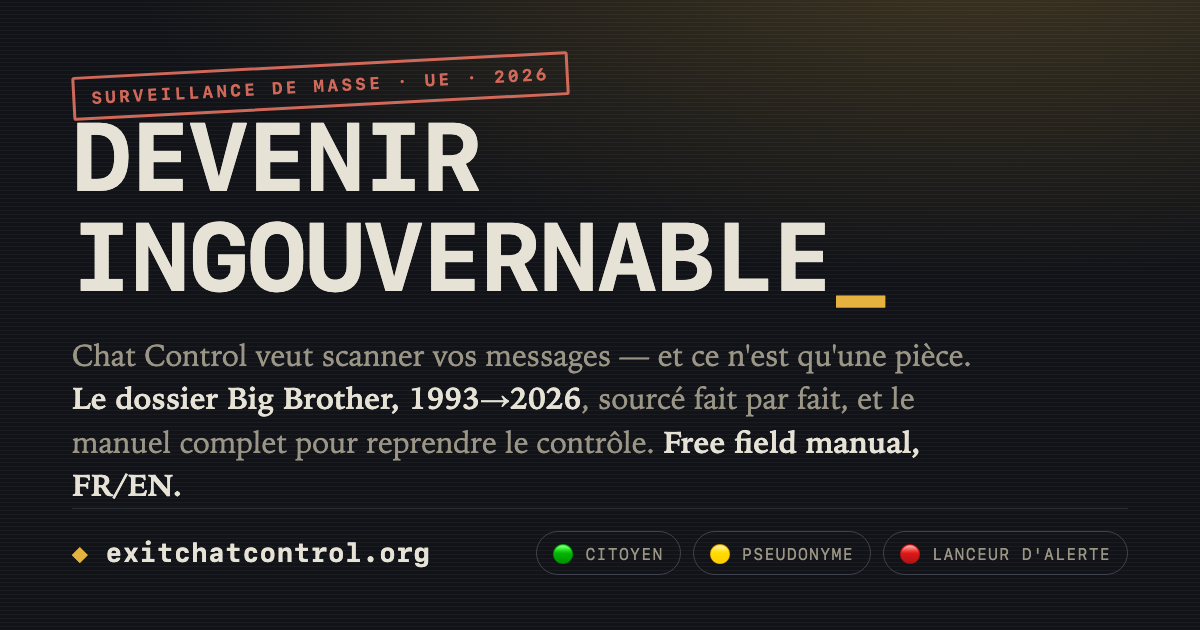
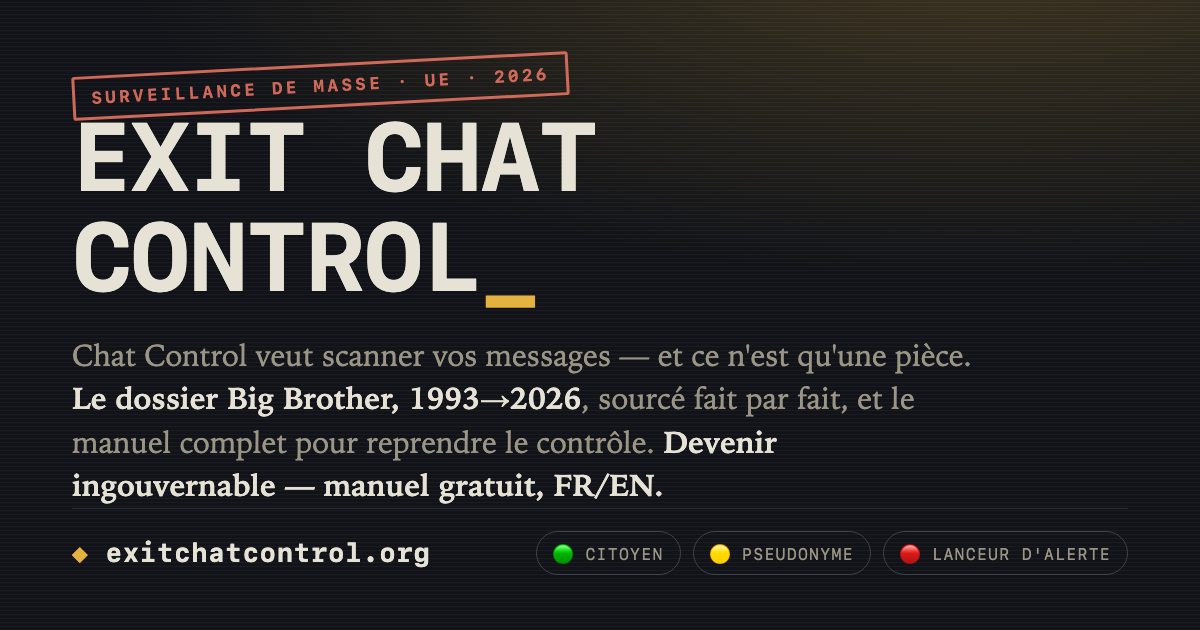
feat(quick-wins): rebrand cascade complete, per-leaf lang (WCAG 3.1.2), CONTRIBUTING, print source line
Five-in-one polish series:

- rebrand cascade FINISHED: og.png regenerated ('EXIT CHAT CONTROL' + Big
  Brother dossier lede), 404.html, site.webmanifest, JSON-LD name/headline,
  meta og:image:alt, /en/ headline — zero old-title occurrence left in dist
  (new e2e guard makes regressions impossible)
- a11y: every <T> leaf now carries its own lang attribute — screen readers
  pronounce EN fragments with English rules on the FR page and vice versa
  on /en/ (WCAG 3.1.2 language-of-parts, one attribute, ~2000 nodes; e2e
  asserts both shapes in the prerender)
- CONTRIBUTING.md: upstream's three rules (traction/open-source/privacy)
  + a where-things-live table mapping the typed data files + the checks
  contributors run (tests name malformed entries)
- print: the printed dossier names its source (footer::after with the
  canonical URL on the last sheet)
- gen-og rig aligned with the brand so future regenerations stay coherent

Gates: lint 0 · vitest 15/15 · build · e2e ALL GREEN (axe ×2 + 2 new guards)

diff --git a/src/lib/i18n.tsx b/src/lib/i18n.tsx
@@ -4,12 +4,21 @@ import type { ReactNode } from 'react'
    :root[data-lang=…] shows one. This is deliberate (inherited from v1):
    the language toggle keeps working before hydration and with JS disabled
    after the initial paint, and switching is instant with zero re-render
-   of a 10k-word page. Language/theme setters live in lib/prefs.ts. */
+   of a 10k-word page. Language/theme setters live in lib/prefs.ts.
+
+   Each leaf carries its own lang attribute: on the FR page the visible FR
+   span matches the page language (harmless) while any EN fragment a screen
+   reader encounters is pronounced with English rules — and vice versa on
+   /en/. WCAG 3.1.2 (language of parts), one attribute, ~2000 nodes. */
 export function T({ fr, en }: { fr: ReactNode; en: ReactNode }) {
   return (
     <>
-      <span data-l="fr">{fr}</span>
-      <span data-l="en">{en}</span>
+      <span data-l="fr" lang="fr">
+        {fr}
+      </span>
+      <span data-l="en" lang="en">
+        {en}
+      </span>
     </>
   )
 }

diff --git a/src/styles/print.css b/src/styles/print.css
@@ -22,4 +22,11 @@
   }
   a.cite::after { content: ''; }
   .manifesto { background: #111; color: #fff; -webkit-print-color-adjust: exact; print-color-adjust: exact; }
+  /* the printed dossier names its source on the last sheet */
+  footer::after {
+    content: 'exitchatcontrol.org — dossier imprimé · printed dossier';
+    display: block; margin-top: 1.2rem; padding-top: 0.6rem;
+    border-top: 1px solid #888;
+    font-family: var(--mono); font-size: 0.72rem; color: #555;
+  }
 }

diff --git a/index.html b/index.html
@@ -78,7 +78,7 @@
     <meta property="og:image:height" content="630" />
     <meta
       property="og:image:alt"
-      content="Devenir Ingouvernable — manuel de souveraineté numérique contre Chat Control"
+      content="Exit Chat Control — manuel de souveraineté numérique contre la surveillance de masse"
     />
     <meta name="twitter:card" content="summary_large_image" />
     <meta name="twitter:title" content="Exit Chat Control · Devenir ingouvernable" />
@@ -101,13 +101,13 @@
           {
             "@type": "WebSite",
             "url": "https://exitchatcontrol.org/",
-            "name": "Devenir Ingouvernable — Exit Chat Control",
+            "name": "Exit Chat Control · Devenir ingouvernable",
             "inLanguage": ["fr", "en"]
           },
           {
             "@type": "Article",
             "mainEntityOfPage": "https://exitchatcontrol.org/",
-            "headline": "Devenir Ingouvernable : échapper à Chat Control",
+            "headline": "Exit Chat Control : devenir ingouvernable",
             "description": "Manuel de souveraineté numérique contre le scan des messages privés dans l'UE : messagerie chiffrée, e-mail, VPN, Linux, GrapheneOS, auto-hébergement, et 25 ans de précédents documentés.",
             "inLanguage": "fr",
             "datePublished": "2026-07-09",

diff --git a/public/404.html b/public/404.html
@@ -4,7 +4,7 @@
 <meta charset="utf-8">
 <meta name="viewport" content="width=device-width, initial-scale=1">
 <meta name="robots" content="noindex">
-<title>404 — Devenir Ingouvernable</title>
+<title>404 — Exit Chat Control</title>
 <style>
   :root{--bg:#efece3;--text:#1b1813;--dim:#5c5749;--accent:#a9761a;--warn:#a83324;
     --mono:ui-monospace,"SF Mono",Menlo,Consolas,monospace;
@@ -27,7 +27,7 @@
   <h1>404</h1>
   <p>Cette page n'existe pas — mais le guide, oui.<br>
   <span lang="en">This page doesn't exist — the guide does.</span></p>
-  <p><a href="/">→ Devenir Ingouvernable / Becoming Ungovernable</a><br>
+  <p><a href="/">→ Exit Chat Control · Devenir ingouvernable / Becoming ungovernable</a><br>
   <a href="/exitchatcontrol-offline.html">→ Version hors-ligne · Offline copy</a></p>
 </div>
 </body>

diff --git a/scripts/og.html b/scripts/og.html
@@ -40,10 +40,10 @@
 <body>
   <span class="stamp">Surveillance de masse · UE · 2026</span>
   <div>
-    <h1>Devenir<br>Ingouvernable<span class="cursor">_</span></h1>
+    <h1>Exit Chat<br>Control<span class="cursor">_</span></h1>
     <p class="lede" style="margin-top:26px">Chat Control veut scanner vos messages —
     et ce n'est qu'une pièce. <b>Le dossier Big Brother, 1993→2026</b>, sourcé fait par fait,
-    et le manuel complet pour reprendre le contrôle. <b>Free field manual, FR/EN.</b></p>
+    et le manuel complet pour reprendre le contrôle. <b>Devenir ingouvernable — manuel gratuit, FR/EN.</b></p>
   </div>
   <div class="foot">
     <span class="url"><span class="glyph">◆</span> exitchatcontrol.org</span>

diff --git a/CONTRIBUTING.md b/CONTRIBUTING.md
@@ -1,0 +1,36 @@
+# Contributing / Contribuer
+
+**EN** — Corrections, translations and new tool entries are welcome. Three
+rules for a tool to qualify (upstream policy): **traction** (established,
+actively maintained, real user base) · **open source** (for the directory the
+license is verified against the repository — source-available doesn't qualify)
+· **privacy-respecting**.
+
+**FR** — Corrections, traductions et nouveaux outils bienvenus. Trois règles
+pour qu'un outil soit accepté : **traction** (projet établi, maintenu, vraie
+base d'utilisateurs) · **open source** (licence vérifiée sur le dépôt — le
+source-available ne compte pas) · **respectueux de la vie privée**.
+
+## Where things live / Où vivent les choses
+
+| What | File |
+|---|---|
+| Directory entry (name, license, link, one-liner FR/EN) | `src/content/directory.tsx` |
+| Full tool card (what/why/who/install, FR/EN) | `src/sections/tools-*.tsx` |
+| Precedents timeline event (dated + primary source) | `src/content/events.tsx` |
+| Big Brother observatory fact (dated + primary source) | `src/content/drift.tsx` |
+| Survival-kit shelf / arsenal marquee | `src/content/showcase.tsx` |
+
+## Checks / Vérifications
+
+```bash
+pnpm test                    # content integrity — tells you if an entry is malformed
+pnpm lint && pnpm build      # types + prerender
+node scripts/e2e.mjs         # full battery (needs Chrome)
+node scripts/check-links.mjs # cited sources must answer (also runs weekly in CI)
+```
+
+Every cited source must be **primary** (statute, ruling, official release,
+forensic report). Licenses in the directory carry the SPDX id shown by the
+project's repository. Not comfortable with code? Open an Issue with the app's
+name, link, and why it qualifies — someone will wire it in.

diff --git a/docs/PLAN-2026-07-10-loop-finish.md b/docs/PLAN-2026-07-10-loop-finish.md
@@ -62,3 +62,16 @@
   même bouton pause explicite (hover/focus/offscreen ne couvrent pas 2.2.2
   au tactile).** Gates locaux build/e2e SKIPPÉS exprès (elle sert dist/ sur
   ses previews 4544/4600) — CI valide mon commit sur l'arbre commité.
+- quick-win inter-itérations (opérateur) — **lane E partielle : pause WCAG
+  2.2.2 du FIL livrée** (toggle React+CSS absorbé par le commit polish sœur
+  `e6a5712` — vérifié par grep dans HEAD · miroir vanilla offline `c5c8622`) ·
+  CI verte.
+- it.2 (03:1x-03:2x) — la sœur a **mergé l'upstream** `7d2aa6d` (rebrand
+  « Exit Chat Control » + traduction NL communautaire @thomasboom + README
+  Contributing) · CI du merge VERTE · audit cohérence rebrand : prefs/e2e/
+  title/hero OK, OG jugée juste (marque au footer, pas de churn) · **lane D
+  exécutée** : 2e note datée dans article-presse.md (l'observatoire entre
+  dans la pièce de presse) `bd5e3ed` · JSON-LD dateModified déjà 10-07 ✓.
+  Sœurs : tree clean mais previews toujours up + arcs récents ≤15 min →
+  PAS encore éteintes, phase F différée. Lanes restantes : B (prose),
+  C (perf/poids), E-solde (axe re-run + offline file:// re-test).